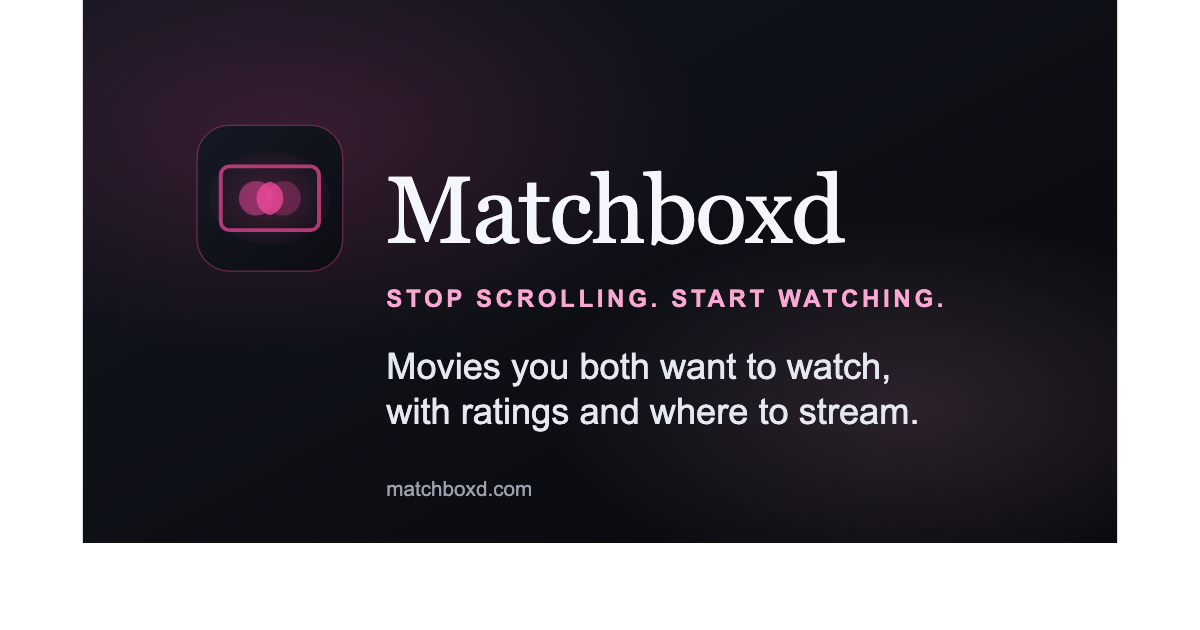
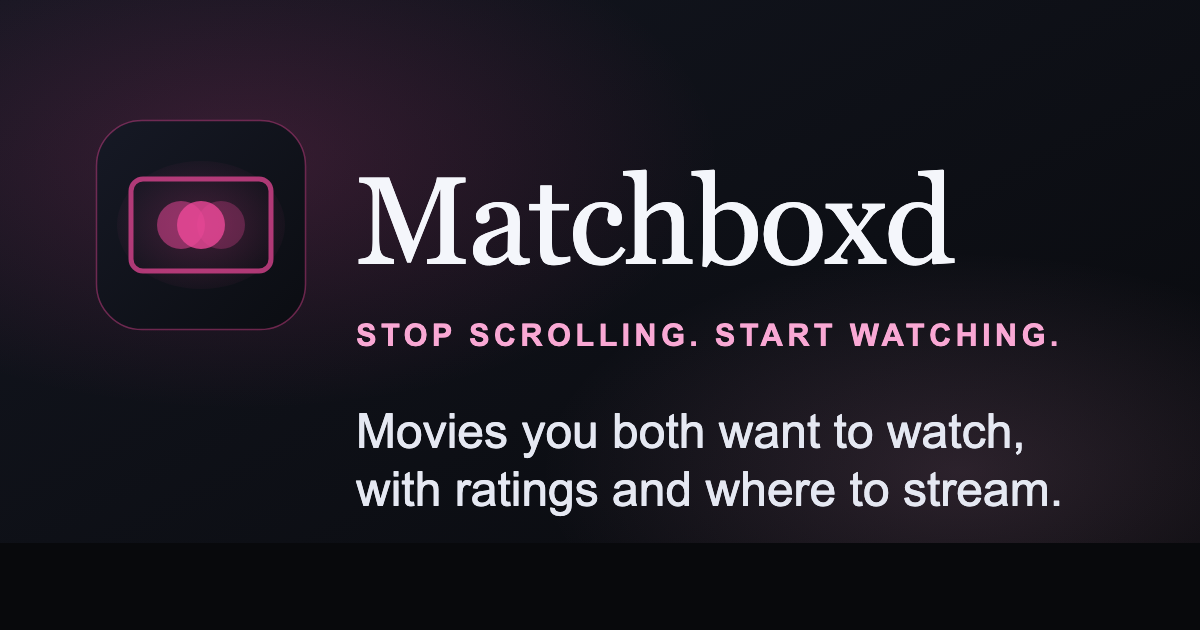
Improve WhatsApp link preview assets

diff --git a/index.html b/index.html
@@ -2,7 +2,9 @@
 <html lang="en" class="dark">
   <head>
     <meta charset="UTF-8" />
-    <link rel="icon" type="image/svg+xml" href="./icon.svg" />
+    <link rel="icon" type="image/png" href="./icon.png" />
+    <link rel="alternate icon" type="image/svg+xml" href="./icon.svg" />
+    <link rel="apple-touch-icon" href="./icon.png" />
     <link rel="manifest" href="./manifest.webmanifest" />
     <link rel="canonical" href="https://matchboxd.com/" />
     <meta name="viewport" content="width=device-width, initial-scale=1.0, viewport-fit=cover, maximum-scale=1" />
@@ -13,16 +15,18 @@
     <meta property="og:title" content="Matchboxd — Stop scrolling. Start watching." />
     <meta property="og:description" content="Movies you both want to watch, with ratings and where to stream." />
     <meta property="og:url" content="https://matchboxd.com/" />
-    <meta property="og:image" content="https://matchboxd.com/social-preview.png" />
-    <meta property="og:image:secure_url" content="https://matchboxd.com/social-preview.png" />
-    <meta property="og:image:type" content="image/png" />
+    <meta property="og:image" content="https://matchboxd.com/social-preview.jpg?v=3" />
+    <meta property="og:image:url" content="https://matchboxd.com/social-preview.jpg?v=3" />
+    <meta property="og:image:secure_url" content="https://matchboxd.com/social-preview.jpg?v=3" />
+    <meta property="og:image:type" content="image/jpeg" />
     <meta property="og:image:width" content="1200" />
     <meta property="og:image:height" content="630" />
     <meta property="og:image:alt" content="Matchboxd logo and tagline on a dark background" />
     <meta name="twitter:card" content="summary_large_image" />
     <meta name="twitter:title" content="Matchboxd — Stop scrolling. Start watching." />
     <meta name="twitter:description" content="Movies you both want to watch, with ratings and where to stream." />
-    <meta name="twitter:image" content="https://matchboxd.com/social-preview.png" />
+    <meta name="twitter:image" content="https://matchboxd.com/social-preview.jpg?v=3" />
+    <meta name="twitter:image:src" content="https://matchboxd.com/social-preview.jpg?v=3" />
     <meta name="twitter:image:alt" content="Matchboxd logo and tagline on a dark background" />
     <meta name="apple-mobile-web-app-capable" content="yes" />
     <meta name="apple-mobile-web-app-status-bar-style" content="black-translucent" />
